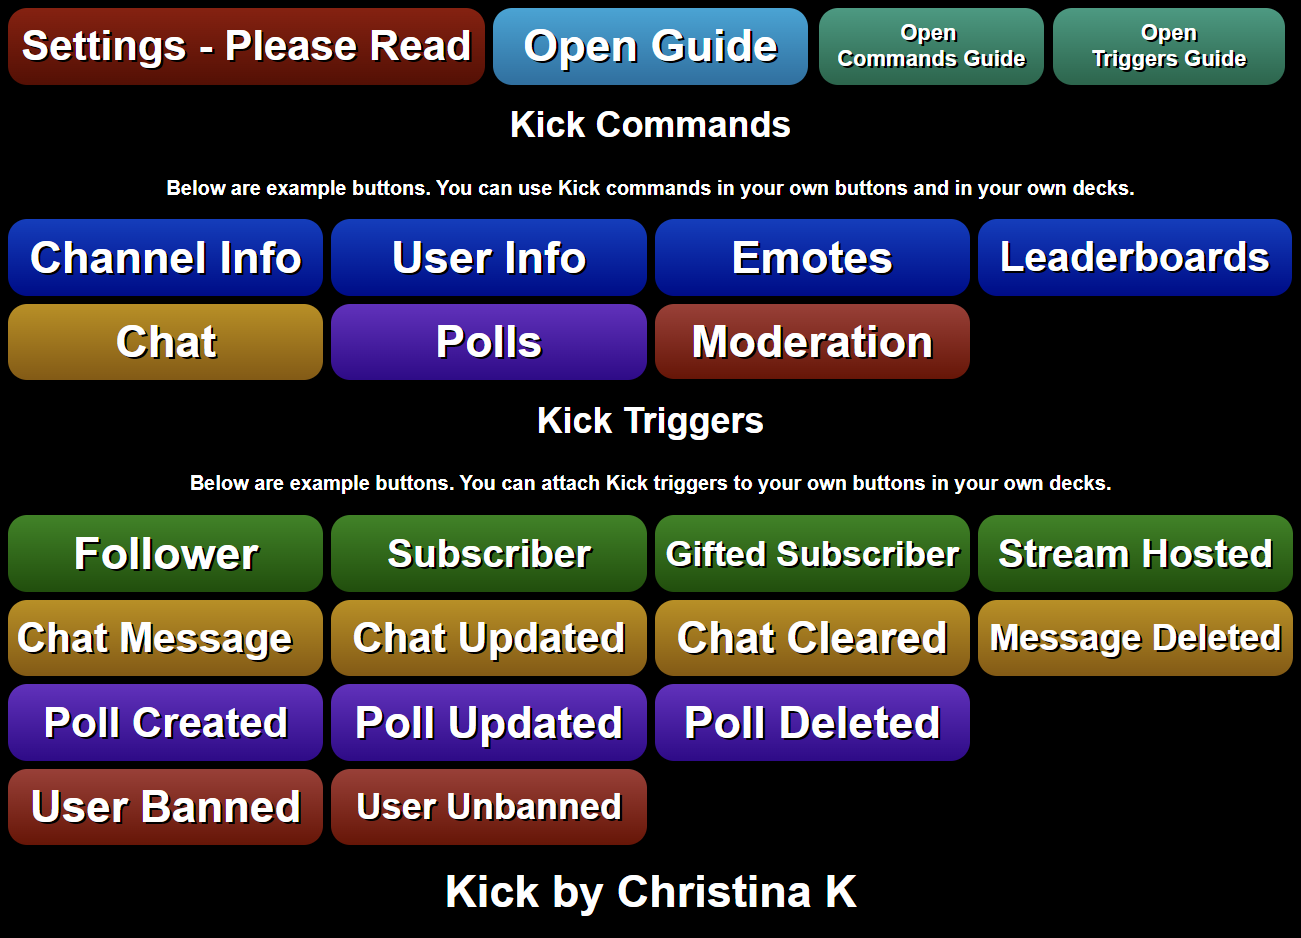
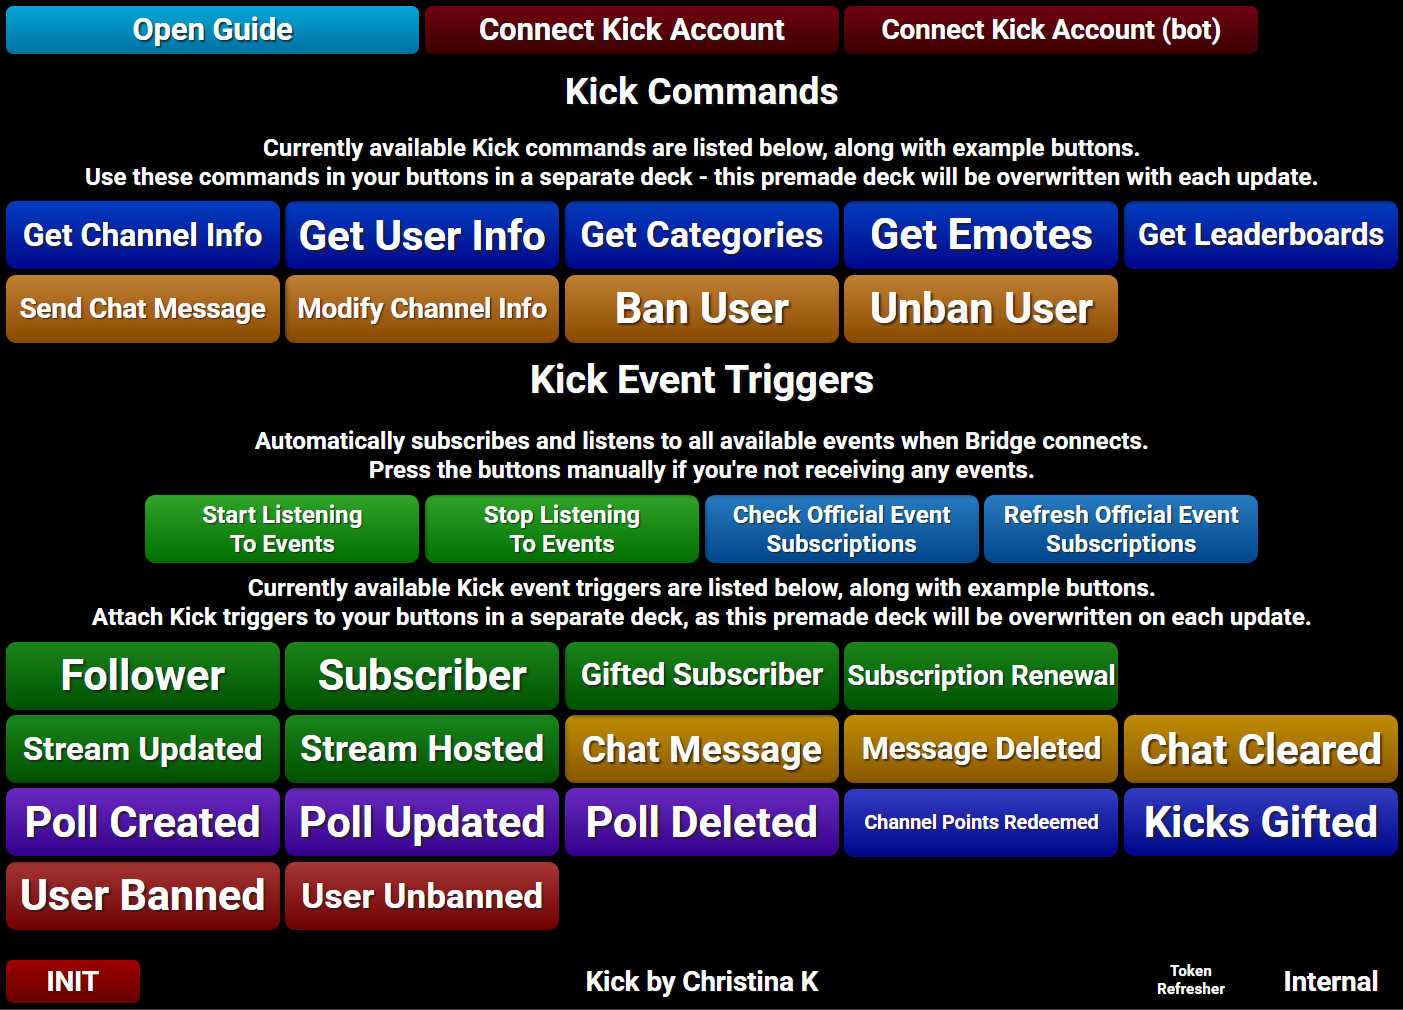
update Kick to 2.2

diff --git a/collections/_extensions/kick.md b/collections/_extensions/kick.md
@@ -4,47 +4,57 @@ title: Kick Streaming
 slug: kick
 desc: Kick streaming events and commands in SAMMI
 category: social
-date: '2025-07-20T00:00:00-05:00'
+date: '2026-01-02T00:00:00-05:00'
 permalink: extensions/social/:slug
 download_url: https://christinak.itch.io/kick-for-sammi
 developer_name: Christina K.
 developer_url: https://docs.christinak.ca/
 icon_local: kick_icon.png
-screenshots_local: kick_deck.png
-version: 1.5
-sammi_version: 2023.2.1
+screenshots_local: kick_deck.png, kick_status.png, kick_replay_png, kick_logging.png
+version: 2.2
+sammi_version: 2025.4.0
 platform: Kick
 overview: |
-
-   <div class="alert alert-info" role="alert">The extension uses unofficial Kick API and might not be fully functional at times. By purchasing it you're supporting its future development.</div>
 
    This extension allows you to control and interact with Kick through SAMMI commands and triggers.
 
    ##### Features
-   
-   **Viewer Engagement**
-   - Trigger events based on new followers, subscribers, gift subscribers, hosts, and channel point redeems
 
-   **Chat Messages**
-   - Listen for messages from specific roles, including broadcaster, mods, subscribers, and founders
-   - Wildcard functionality to trigger for all messages or specific ones
+   **SAMMI Commands**
+   - Get Channel Info
+   - Get User Info
+   - Get Categories
+   - Get Emotes
+   - Get Leaderboards
+   - Send Chat Message
+   - Modify Channel Info
+   - Ban/Timeout/Unban User
 
-   **User Interaction**
-   - Ban, unban or timeout users with a simple command
-   - Promote or demote users to chat moderators
-   - Listen to hosting events, chat updates, and chat clear events
+   **SAMMI Triggers**
+   - Follower
+   - Subscriber
+   - Gifted Subscriber
+   - Subscription Renewal
+   - Stream Updated
+   - Stream Hosted
+   - Chat Message
+   - Chat Message Deleted
+   - Chat Cleared
+   - Poll Created
+   - Poll Updated
+   - Poll Deleted
+   - Channel Points Redeemed
+   - Kicks Gifted
+   - User Banned
+   - User Unbanned
 
-   **Stream Moderation**
-   - Monitor and manage user bans and unbans
+   **Connect Bot Account**
+   - Add your Kick bot token so SAMMI can send chat messages using your bot account instead of your main channel account.
 
-   **Poll Management**
-   - Create and delete polls, and listen to poll update events to retrieve the current poll information, such as amount of votes
+   **Replay and log all events**
+   - Replay and debug all Kick events via Bridge.
 
-   **User and Channel Data Retrieval**
-   - Get information about channels, such as the amount of followers
-   - Get information about your viewers, such as whether they're a subscriber
-
-   <div class="alert alert-warning" role="alert">This extension works with Kick unofficial API. Because the API is always changing, commands or triggers can suddenly stop working or change without notice.</div>
+   <div class="alert alert-warning" role="alert">This extension leverages both the official API and unofficial methods to provide as much functionality as possible. Therefore, some features may be unstable or subject to change if Kick updates their platform.</div>
 
 setup_url: https://docs.christinak.ca/docs/extensions/kick#setup
 privacy_collect: false
